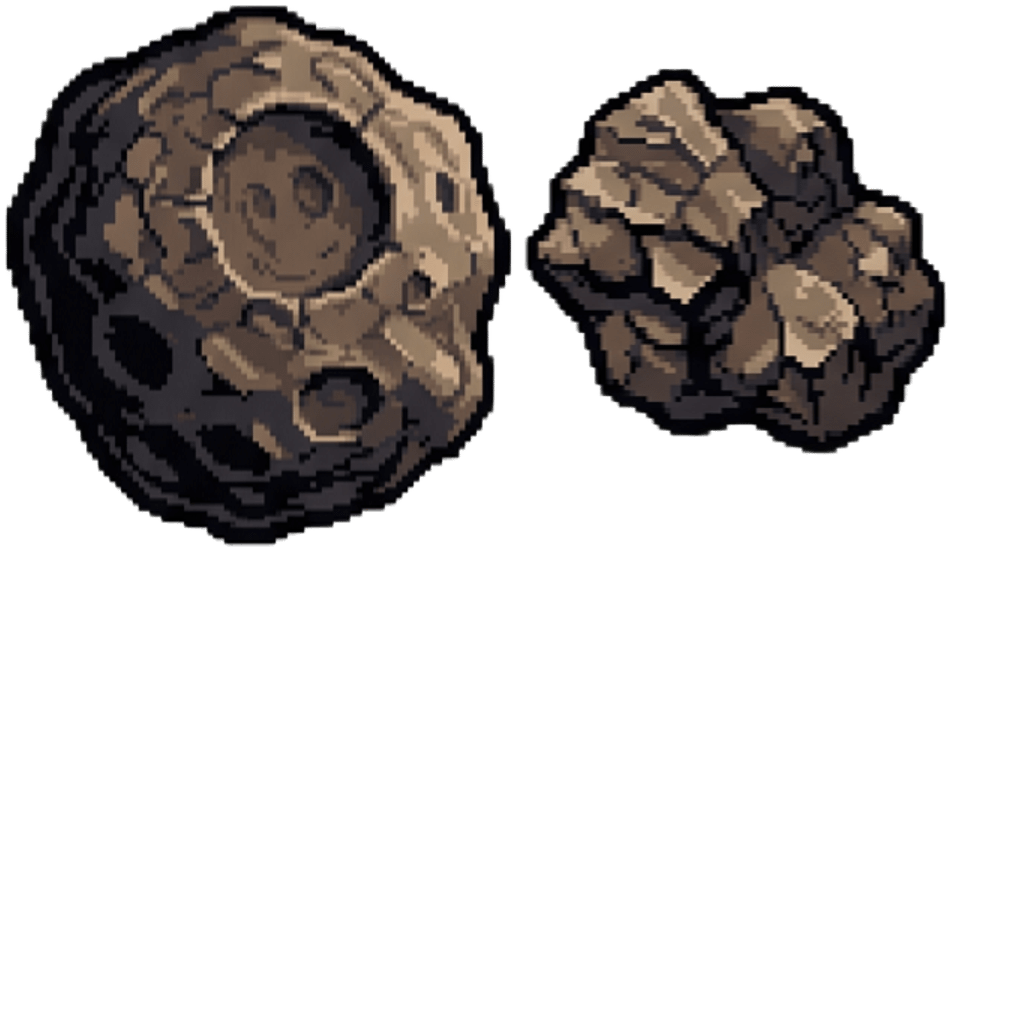
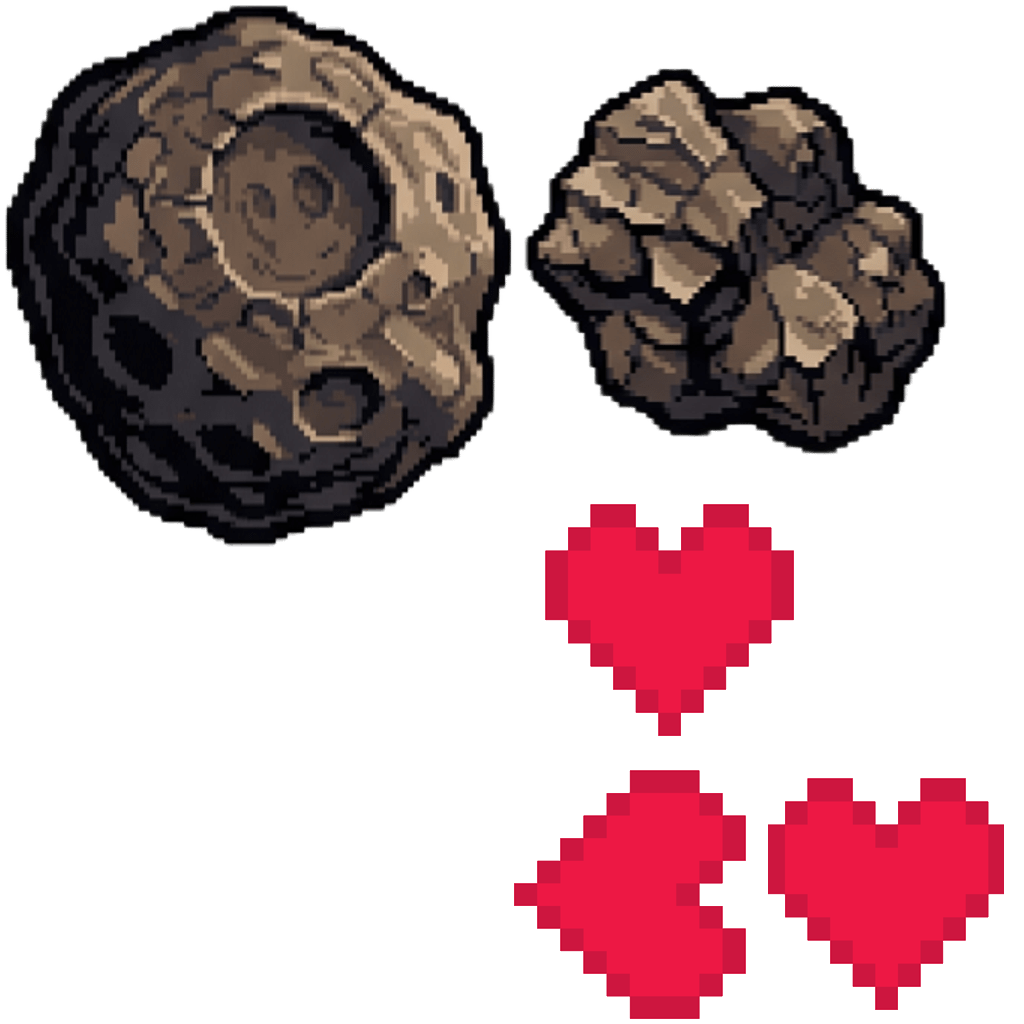
update
update

Changed region(s): [[0.5, 0.75, 1.0, 1.0], [0.5312, 0.4688, 0.7812, 0.7188]]

diff --git a/scripts/objRefTable.js b/scripts/objRefTable.js
@@ -32,8 +32,8 @@ self.C3_GetObjectRefTable = function () {
 		C3.Plugins.Sprite.Cnds.OnCollision,
 		C3.Plugins.Sprite.Acts.Destroy,
 		C3.Plugins.System.Acts.AddVar,
-		C3.Plugins.System.Acts.SubVar,
 		C3.Plugins.System.Cnds.CompareVar,
+		C3.Plugins.System.Acts.SubVar,
 		C3.Plugins.System.Acts.SetTimescale,
 		C3.Plugins.System.Exps.timescale,
 		C3.Plugins.Sprite.Acts.SetY,
@@ -54,34 +54,36 @@ self.C3_JsPropNameTable = [
 	{Toque: 0},
 	{Sprite3: 0},
 	{Plataforma: 0},
-	{Sprite4: 0},
+	{nave: 0},
 	{Sólido: 0},
-	{Sprite5: 0},
+	{cantodireito: 0},
 	{Projétil: 0},
-	{Sprite6: 0},
-	{Sprite7: 0},
+	{estrela: 0},
+	{asteroide: 0},
 	{Teclado: 0},
-	{Sprite8: 0},
+	{disparo: 0},
 	{Sprite9: 0},
-	{Partículas: 0},
-	{Partículas2: 0},
-	{Sprite10: 0},
-	{Texto: 0},
+	{particulaasteroide: 0},
+	{particulaestrela: 0},
+	{placar: 0},
+	{contadorpontos: 0},
 	{Áudio: 0},
-	{Partículas3: 0},
+	{particulanave: 0},
 	{Sprite11: 0},
 	{Sprite12: 0},
 	{Vídeo: 0},
 	{vidas: 0},
-	{contador: 0},
+	{contadorvidas: 0},
 	{Texto2: 0},
-	{vidas2: 0},
+	{pontos: 0},
 	{Sprite13: 0},
 	{direita: 0},
 	{esquerda: 0},
-	{Sprite14: 0},
+	{botaodisparo: 0},
 	{PlanoDeFundoEmBlocos2: 0},
-	{pontos: 0},
+	{Sprite15: 0},
+	{particulacoracao: 0},
+	{coracao: 0},
 	{controle: 0}
 ];
 
@@ -90,29 +92,32 @@ self.InstanceType = {
 	Sprite2: class extends self.ISpriteInstance {},
 	Toque: class extends self.IInstance {},
 	Sprite3: class extends self.ISpriteInstance {},
-	Sprite4: class extends self.ISpriteInstance {},
-	Sprite5: class extends self.ISpriteInstance {},
-	Sprite6: class extends self.ISpriteInstance {},
-	Sprite7: class extends self.ISpriteInstance {},
+	nave: class extends self.ISpriteInstance {},
+	cantodireito: class extends self.ISpriteInstance {},
+	estrela: class extends self.ISpriteInstance {},
+	asteroide: class extends self.ISpriteInstance {},
 	Teclado: class extends self.IInstance {},
-	Sprite8: class extends self.ISpriteInstance {},
+	disparo: class extends self.ISpriteInstance {},
 	Sprite9: class extends self.ISpriteInstance {},
-	Partículas: class extends self.IParticlesInstance {},
-	Partículas2: class extends self.IParticlesInstance {},
-	Sprite10: class extends self.ISpriteInstance {},
-	Texto: class extends self.ITextInstance {},
+	particulaasteroide: class extends self.IParticlesInstance {},
+	particulaestrela: class extends self.IParticlesInstance {},
+	placar: class extends self.ISpriteInstance {},
+	contadorpontos: class extends self.ITextInstance {},
 	Áudio: class extends self.IInstance {},
-	Partículas3: class extends self.IParticlesInstance {},
+	particulanave: class extends self.IParticlesInstance {},
 	Sprite11: class extends self.ISpriteInstance {},
 	Sprite12: class extends self.ISpriteInstance {},
 	Vídeo: class extends self.IWorldInstance {},
 	vidas: class extends self.ITextInstance {},
-	contador: class extends self.ITextInstance {},
+	contadorvidas: class extends self.ITextInstance {},
 	Texto2: class extends self.ITextInstance {},
-	vidas2: class extends self.ITextInstance {},
+	pontos: class extends self.ITextInstance {},
 	Sprite13: class extends self.ISpriteInstance {},
 	direita: class extends self.ISpriteInstance {},
 	esquerda: class extends self.ISpriteInstance {},
-	Sprite14: class extends self.ISpriteInstance {},
-	PlanoDeFundoEmBlocos2: class extends self.ITiledBackgroundInstance {}
+	botaodisparo: class extends self.ISpriteInstance {},
+	PlanoDeFundoEmBlocos2: class extends self.ITiledBackgroundInstance {},
+	Sprite15: class extends self.ISpriteInstance {},
+	particulacoracao: class extends self.IParticlesInstance {},
+	coracao: class extends self.ISpriteInstance {}
 }

diff --git a/scripts/c3runtime.js b/scripts/c3runtime.js
@@ -1449,6 +1449,14 @@ self.C3_ExpressionFuncs = [
 			const f0 = p._GetNode(0).GetBoundMethod();
 			return () => f0(50, 425);
 		},
+		p => {
+			const f0 = p._GetNode(0).GetBoundMethod();
+			return () => f0(15, 20);
+		},
+		p => {
+			const f0 = p._GetNode(0).GetBoundMethod();
+			return () => f0(50, 430);
+		},
 		() => "direita",
 		() => "frente",
 		() => "esquerda",
